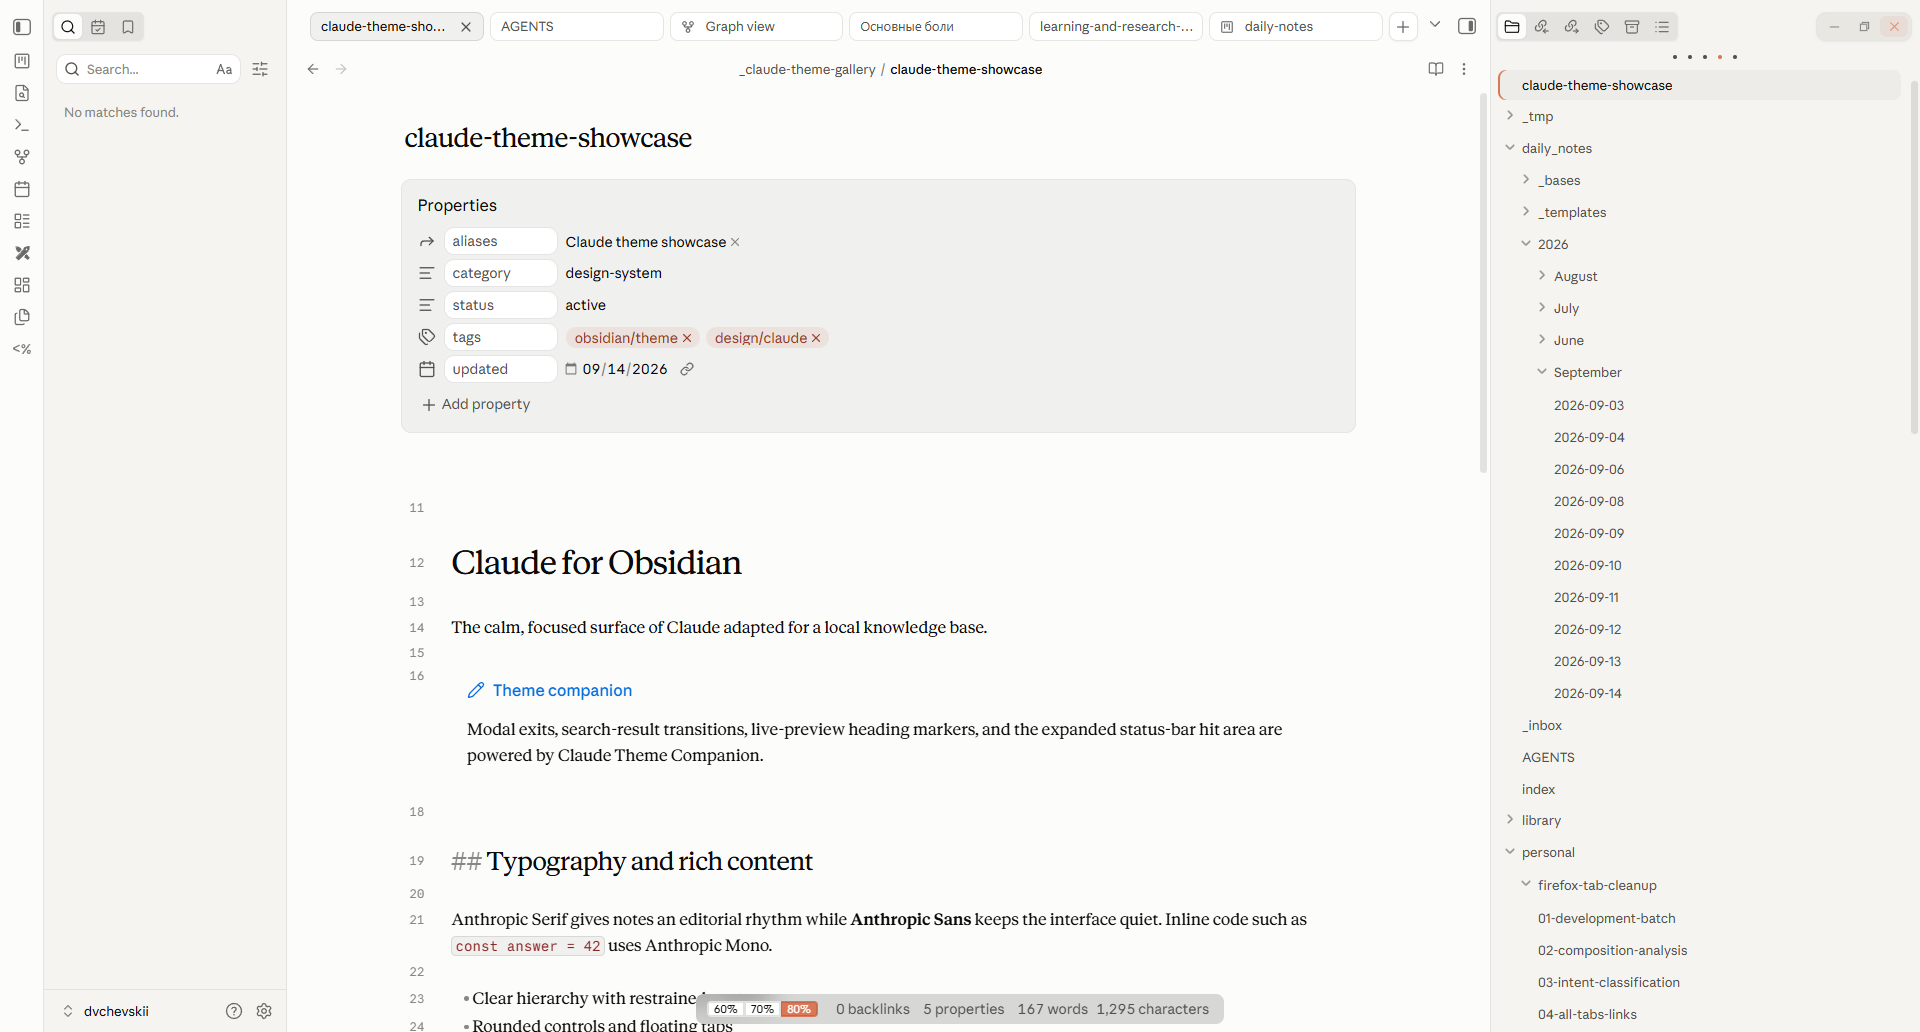
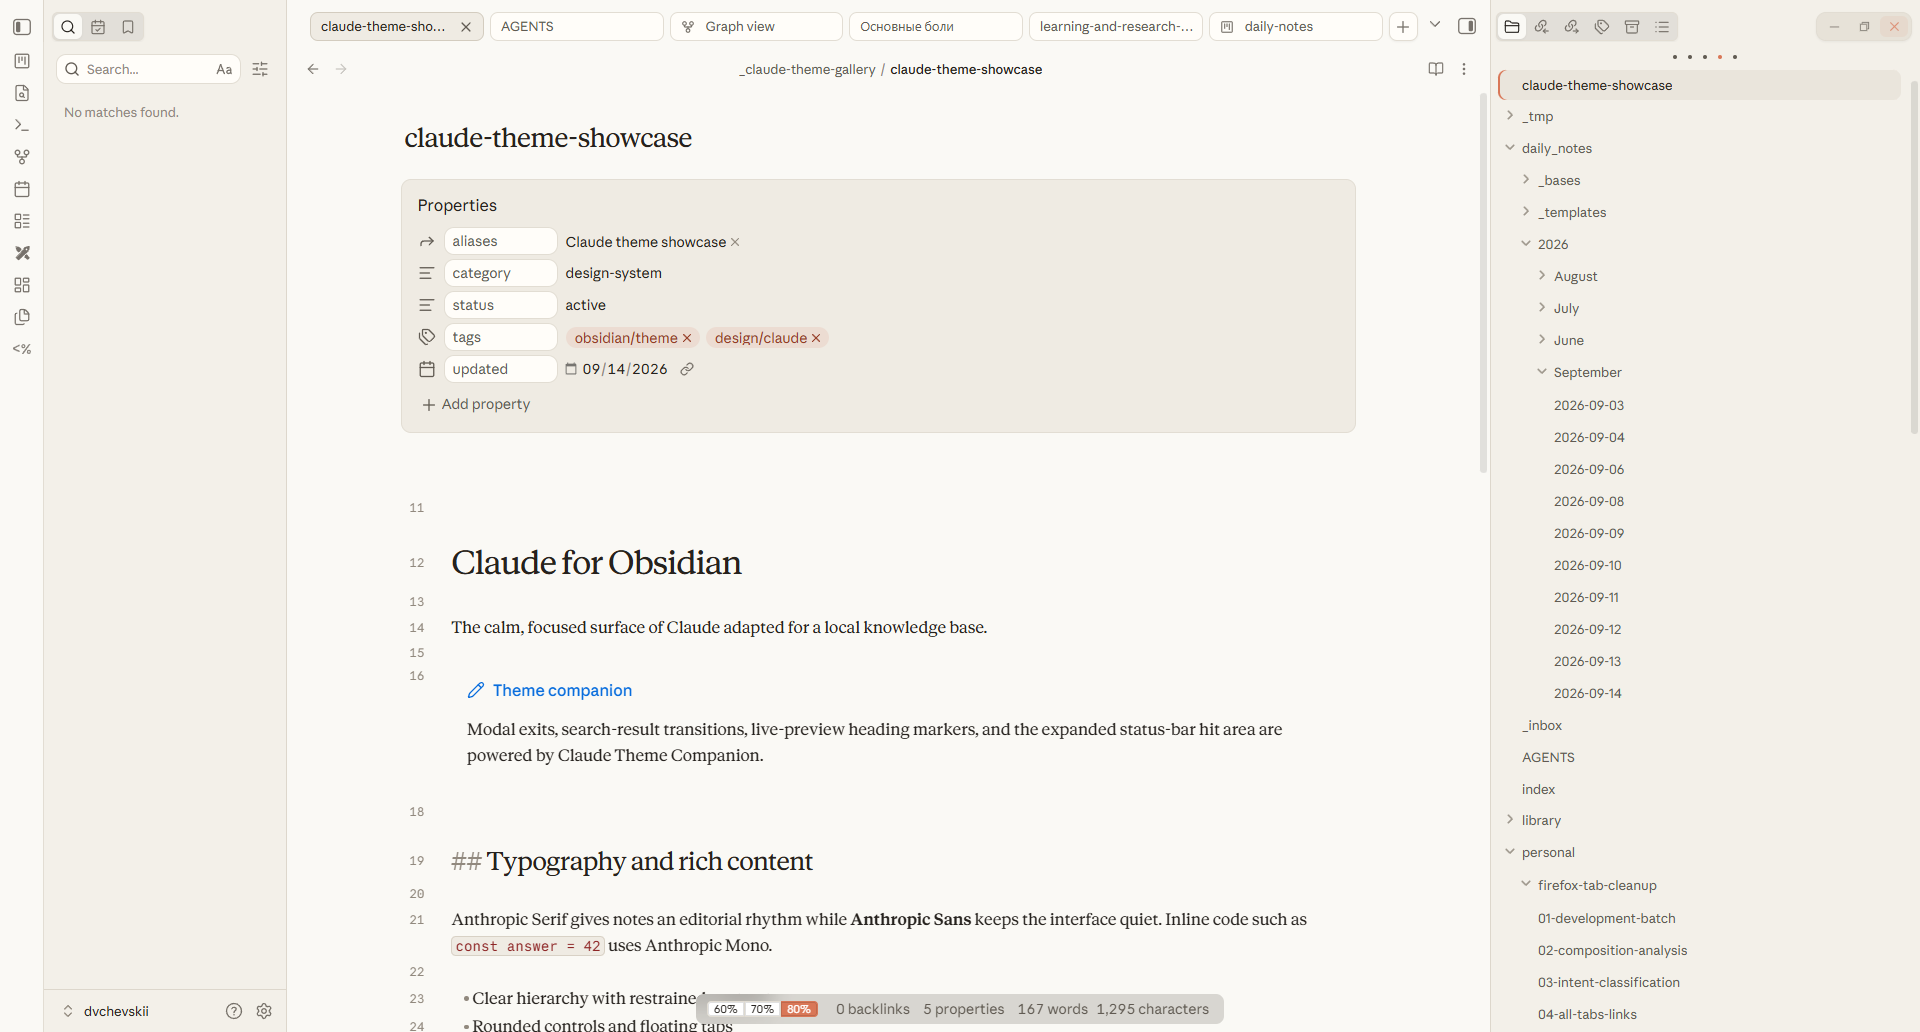
feat: add warm light palette

Changed region(s): [[0.25, 0.9922, 0.375, 1.0], [0.25, 0.5271, 0.375, 0.5581], [0.2188, 0.124, 0.3438, 0.155]]

diff --git a/theme.css b/theme.css
@@ -4,6 +4,26 @@ name: Claude
 id: claude-theme
 settings:
   -
+    id: claude-colors
+    title: Цветовая схема
+    type: heading
+    level: 2
+    collapsed: false
+  -
+    id: claude-light-palette
+    title: Светлая палитра
+    description: Цветовая вариация светлого режима
+    type: class-select
+    allowEmpty: false
+    default: claude-light-palette-default
+    options:
+      -
+        label: Default
+        value: claude-light-palette-default
+      -
+        label: Warm
+        value: claude-light-palette-warm
+  -
     id: claude-typography
     title: Типографика
     type: heading
@@ -260,6 +280,48 @@ body.claude-heading-font-mono {
   --claude-modal-backdrop: rgb(11 11 11 / 8%);
   --claude-shadow-sm: 0 1px 2px rgb(11 11 11 / 4%);
   --claude-shadow-lg: 0 12px 36px rgb(11 11 11 / 10%);
+}
+
+body.theme-light.claude-light-palette-warm {
+  --background-primary: #faf9f5;
+  --background-primary-alt: #f1eee8;
+  --background-secondary: #f3f0e9;
+  --background-secondary-alt: #e7e2d8;
+  --background-modifier-hover: #efebe3;
+  --background-modifier-active-hover: #ebe6dc;
+  --background-modifier-border: #e2ddd3;
+  --background-modifier-border-hover: #d3ccbf;
+  --background-modifier-form-field: #fffdf9;
+  --background-modifier-form-field-highlighted: #faf9f5;
+  --background-modifier-box-shadow: rgb(49 43 36 / 11%);
+  --background-modifier-cover: rgb(49 43 36 / 35%);
+  --text-normal: #26221e;
+  --text-muted: #615b53;
+  --text-faint: #91897e;
+  --icon-color: #615b53;
+  --icon-color-hover: #26221e;
+  --nav-item-color: #615b53;
+  --nav-item-color-hover: #26221e;
+  --nav-item-color-active: #26221e;
+  --nav-item-background-active: #eae5dc;
+  --nav-item-background-hover: #efebe3;
+  --tab-text-color: #615b53;
+  --tab-text-color-active: #26221e;
+  --tab-container-background: #f3f0e9;
+  --divider-color: #ddd7cc;
+  --blockquote-border-color: #ddd7cc;
+  --blockquote-color: #615b53;
+  --code-background: #efebe3;
+  --code-normal: #26221e;
+  --link-unresolved-color: #91897e;
+  --claude-surface-raised: #fffdf9;
+  --claude-surface-soft: #efebe3;
+  --claude-user-bubble: #efebe3;
+  --claude-inline-code-background: #efebe3;
+  --claude-inline-code-border: #d8d1c5;
+  --claude-modal-backdrop: rgb(49 43 36 / 8%);
+  --claude-shadow-sm: 0 1px 2px rgb(49 43 36 / 5%);
+  --claude-shadow-lg: 0 12px 36px rgb(49 43 36 / 11%);
 }
 
 .theme-dark {

diff --git a/README.md b/README.md
@@ -1,7 +1,7 @@
 # Claude for Obsidian
 
 An unofficial Obsidian theme inspired by the current Claude web interface. It
-ships with coordinated light and dark palettes, Anthropic typography, compact
+ships with Default and Warm light palettes, a coordinated dark palette, Anthropic typography, compact
 recessed sidebars, floating tabs, refined modal surfaces, and an optional
 desktop companion plugin for behavior CSS cannot provide.
 
@@ -15,7 +15,7 @@ This project is not affiliated with or endorsed by Anthropic or Obsidian.
 
 ## Highlights
 
-- Claude-inspired light and dark color systems.
+- Claude-inspired Default and Warm light palettes plus a coordinated dark color system.
 - Bundled Anthropic Sans, Serif, and Mono variable fonts.
 - Independent interface, note, and heading font selectors through Style Settings.
 - Floating editor tabs, recessed sidebars, compact explorer actions, centered status bar, and polished window controls.
@@ -50,9 +50,10 @@ theme. The theme remains fully usable without it.
 
 Install and enable the community plugin
 [Style Settings](https://github.com/mgmeyers/obsidian-style-settings), then open
-**Settings → Style Settings → Claude**. You can select Anthropic Sans, Serif, or
-Mono independently for the interface, note body, and headings; auto-hide the
-status bar; and hide the Obsidian Sync status item.
+**Settings → Style Settings → Claude**. You can switch the light palette between
+Default and Warm; select Anthropic Sans, Serif, or Mono independently for the
+interface, note body, and headings; auto-hide the status bar; and hide the
+Obsidian Sync status item.
 
 ## Development
 
@@ -102,7 +103,7 @@ leave the generated showcase note in the vault.
 
 ## Releases
 
-- Push a numeric tag matching `manifest.json`, for example `1.0.58`, to publish the theme.
+- Push a numeric tag matching `manifest.json`, for example `1.0.59`, to publish the theme.
 - Push `companion-<version>`, for example `companion-1.0.0`, to publish the plugin.
 - Each release is rebuilt, validated, packaged, checksummed, and provenance-attested in GitHub Actions.
 

diff --git a/screenshots/README.md b/screenshots/README.md
@@ -6,9 +6,9 @@ deterministic [`gallery/showcase.md`](../gallery/showcase.md) fixture.
 
 ## Overview
 
-| Light | Dark |
-| --- | --- |
-| ![Light theme overview](overview-light.png) | ![Dark theme overview](overview-dark.png) |
+| Default light | Warm light | Dark |
+| --- | --- | --- |
+| ![Default light theme overview](overview-light.png) | ![Warm light theme overview](overview-warm.png) | ![Dark theme overview](overview-dark.png) |
 
 ## Companion interactions
 

diff --git a/CHANGELOG.md b/CHANGELOG.md
@@ -2,6 +2,10 @@
 
 All notable changes to this project are documented here.
 
+## Theme 1.0.59
+
+- Added Default and Warm light palette variants selectable through Style Settings.
+
 ## Theme 1.0.58
 
 - Added coordinated Claude-inspired light and dark palettes.
